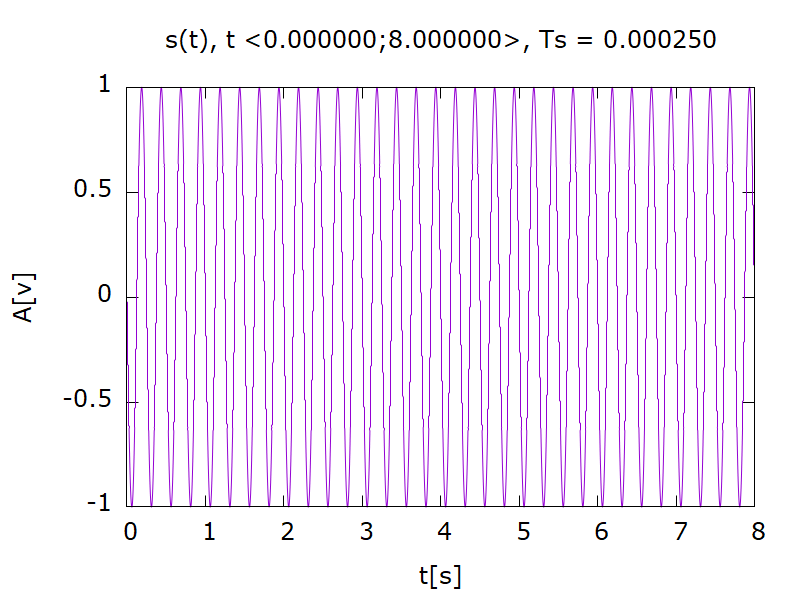
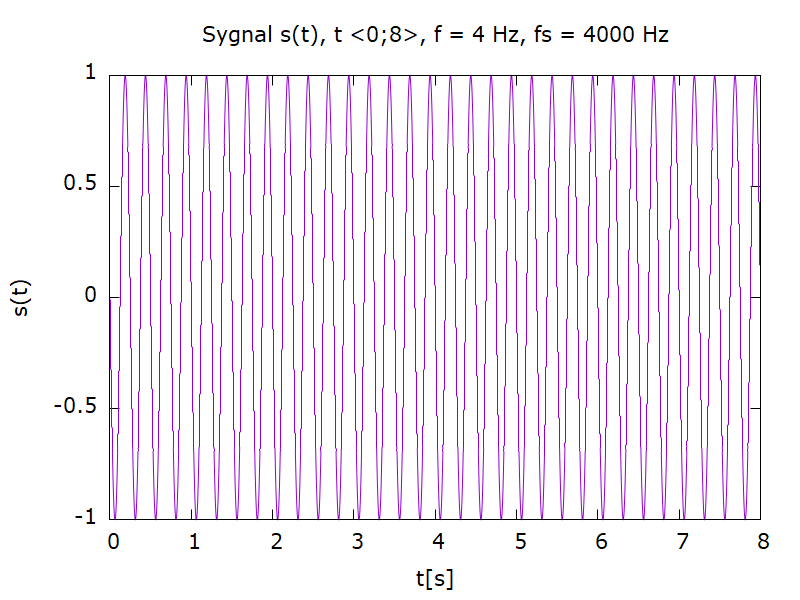
Poprawki do podpisow osi i tytulow wykresow

diff --git a/LAB_02/LAB_02/main.cpp b/LAB_02/LAB_02/main.cpp
@@ -18,61 +18,11 @@ float s(float t, float A, float f, float fi) {
 	return A * sin(2*M_PI*f*t + fi);
 }
 
-int quant(float st, unsigned int q) {
+unsigned int quant(float st, unsigned int q) {
 	int high = pow(2, q);
 	int low = 0;
 
 	return ((st + A) / (2 * A)) * (high - low) + low;
-}
-
-void zad1() {
-	float tn = t0;
-	float fs = 1000 * f;
-	float Ts = 1.0 / fs;
-
-	int n = 0;
-	string title = "", filename = "";
-	stringstream st;
-
-	while (tn <= tN) {
-		st << tn << ";" << s(tn, A, f, fi) << ";\n";
-		n++;
-		tn = t0 + (n*Ts);
-	}
-
-	// s(t)
-	string outS = st.str();
-
-	title = "s(t), t <" + to_string(t0) + ";" + to_string(tN) + ">, Ts = " + to_string(Ts);
-	filename = "LAB_02_ZAD1_s";
-
-	dataToCsv("csv/" + filename + ".csv", outS);
-	drawChart(title, "t[s]", "A[v]", "csv/" + filename +".csv", "charts/" + filename + ".png");
-}
-
-void zad2() {
-	float tn = t0;
-	float fs = 1000 * f;
-	float Ts = 1.0 / fs;
-
-	int n = 0;
-	string title = "", filename = "";
-	stringstream st;
-
-	while (tn <= tN) {
-		st << tn << ";" << quant(s(tn, A, f, fi), 16) << ";\n";
-		n++;
-		tn = t0 + (n*Ts);
-	}
-
-	// s(t) skwantyzowane, q = 16
-	string outS = st.str();
-
-	title = "s(t) skwantyzowane, q = 16";
-	filename = "LAB_02_ZAD2_s_q_16";
-
-	dataToCsv("csv/" + filename + ".csv", outS);
-	drawChartWithDots(title, "t[s]", "przedzialy kwantyzacji", "csv/" + filename + ".csv", "charts/" + filename + ".png");
 }
 
 void test() {
@@ -112,6 +62,56 @@ void test() {
 	drawChartWithStepsPoints(title, "t", "s(t)", "csv/" + filename + ".csv", "csv/" + filename2 + ".csv", "charts/" + filename + ".png");
 }
 
+void zad1() {
+	float tn = t0;
+	float fs = 1000 * f;
+	float Ts = 1.0 / fs;
+
+	int n = 0;
+	string title = "", filename = "";
+	stringstream st;
+
+	while (tn <= tN) {
+		st << tn << ";" << s(tn, A, f, fi) << ";\n";
+		n++;
+		tn = t0 + (n*Ts);
+	}
+
+	// s(t)
+	string outS = st.str();
+
+	title = "Sygnal s(t), t <" + to_string(int(t0)) + ";" + to_string(int(tN)) + ">, f = " + to_string(int(f)) + " Hz, fs = " + to_string(int(fs)) + " Hz";
+	filename = "LAB_02_ZAD1_s";
+
+	dataToCsv("csv/" + filename + ".csv", outS);
+	drawChart(title, "t[s]", "s(t)", "csv/" + filename +".csv", "charts/" + filename + ".png");
+}
+
+void zad2() {
+	float tn = t0;
+	float fs = 1000 * f;
+	float Ts = 1.0 / fs;
+
+	int n = 0;
+	string title = "", filename = "";
+	stringstream st;
+
+	while (tn <= tN) {
+		st << tn << ";" << quant(s(tn, A, f, fi), 16) << ";\n";
+		n++;
+		tn = t0 + (n*Ts);
+	}
+
+	// s(t) skwantyzowane, q = 16
+	string outS = st.str();
+
+	title = "Skwantyzowany sygnal s(t), q = 16, fs = " + to_string(int(fs)) + " Hz";
+	filename = "LAB_02_ZAD2_s_q_16";
+
+	dataToCsv("csv/" + filename + ".csv", outS);
+	drawChartWithDots(title, "t[s]", "s(t)", "csv/" + filename + ".csv", "charts/" + filename + ".png");
+}
+
 void zad3() {
 	float tn = t0;
 	float fs = 500 * f;
@@ -130,11 +130,11 @@ void zad3() {
 	// s(t) skwantyzowane, q = 8
 	string outS = st.str();
 
-	title = "s(t) skwantyzowane, q = 8";
+	title = "Skwantyzowany sygnal s(t), q = 8, fs = " + to_string(int(fs)) + " Hz";
 	filename = "LAB_02_ZAD3_s_q_8";
 
 	dataToCsv("csv/" + filename + ".csv", outS);
-	drawChartWithDots(title, "t[s]", "przedzialy kwantyzacji", "csv/" + filename + ".csv", "charts/" + filename + ".png");
+	drawChartWithDots(title, "t[s]", "s(t)", "csv/" + filename + ".csv", "charts/" + filename + ".png");
 }
 
 int main() {

diff --git a/LAB_02/LAB_02/chart_utils.cpp b/LAB_02/LAB_02/chart_utils.cpp
@@ -46,7 +46,7 @@ namespace chart_utils {
 	void drawChart(string title, string xlabel, string ylabel, string inputFile, string outputFile) {
 		Gnuplot gplot;
 
-		gplot.cmd("set terminal pngcairo size 800, 600 enhanced font 'Verdana,9'");
+		gplot.cmd("set terminal pngcairo size 800, 600 enhanced font 'Verdana,8'");
 		gplot.cmd("set output \"./" + outputFile + "\"");
 		gplot.cmd("set datafile separator \";\"");
 		gplot.cmd("set encoding utf8");
@@ -62,7 +62,7 @@ namespace chart_utils {
 	void drawChartWithDots(string title, string xlabel, string ylabel, string inputFile, string outputFile) {
 		Gnuplot gplot;
 
-		gplot.cmd("set terminal pngcairo size 800, 600 enhanced font 'Verdana,9'");
+		gplot.cmd("set terminal pngcairo size 800, 600 enhanced font 'Verdana,8'");
 		gplot.cmd("set output \"./" + outputFile + "\"");
 		gplot.cmd("set datafile separator \";\"");
 		gplot.cmd("set encoding utf8");
@@ -77,7 +77,7 @@ namespace chart_utils {
 	void drawChartWithSteps(string title, string xlabel, string ylabel, string inputFile, string outputFile) {
 		Gnuplot gplot;
 
-		gplot.cmd("set terminal pngcairo size 800, 600 enhanced font 'Verdana,9'");
+		gplot.cmd("set terminal pngcairo size 800, 600 enhanced font 'Verdana,8'");
 		gplot.cmd("set output \"./" + outputFile + "\"");
 		gplot.cmd("set datafile separator \";\"");
 		gplot.cmd("set encoding utf8");
@@ -86,13 +86,13 @@ namespace chart_utils {
 		gplot.cmd("set ylabel \"" + ylabel + "\"");
 		gplot.cmd("unset key");
 		gplot.cmd("set samples 1000");
-		gplot.cmd("plot \"./" + inputFile + "\" u 1:2 with dots");
+		gplot.cmd("plot \"./" + inputFile + "\" u 1:2 with steps");
 	}
 
 	void drawChartWithStepsPoints(string title, string xlabel, string ylabel, string inputFile, string inputFile2, string outputFile) {
 		Gnuplot gplot;
 
-		gplot.cmd("set terminal pngcairo size 800, 600 enhanced font 'Verdana,9'");
+		gplot.cmd("set terminal pngcairo size 800, 600 enhanced font 'Verdana,8'");
 		gplot.cmd("set output \"./" + outputFile + "\"");
 		gplot.cmd("set datafile separator \";\"");
 		gplot.cmd("set encoding utf8");
